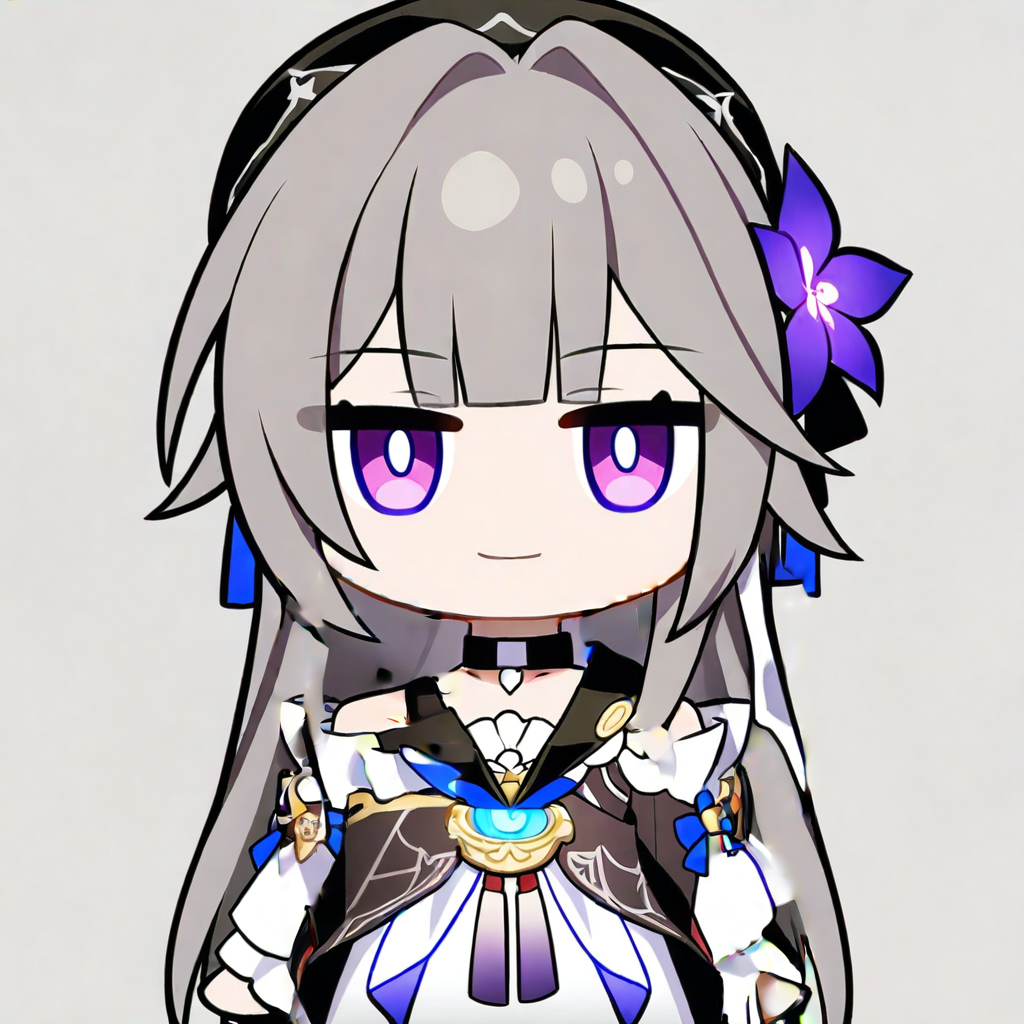
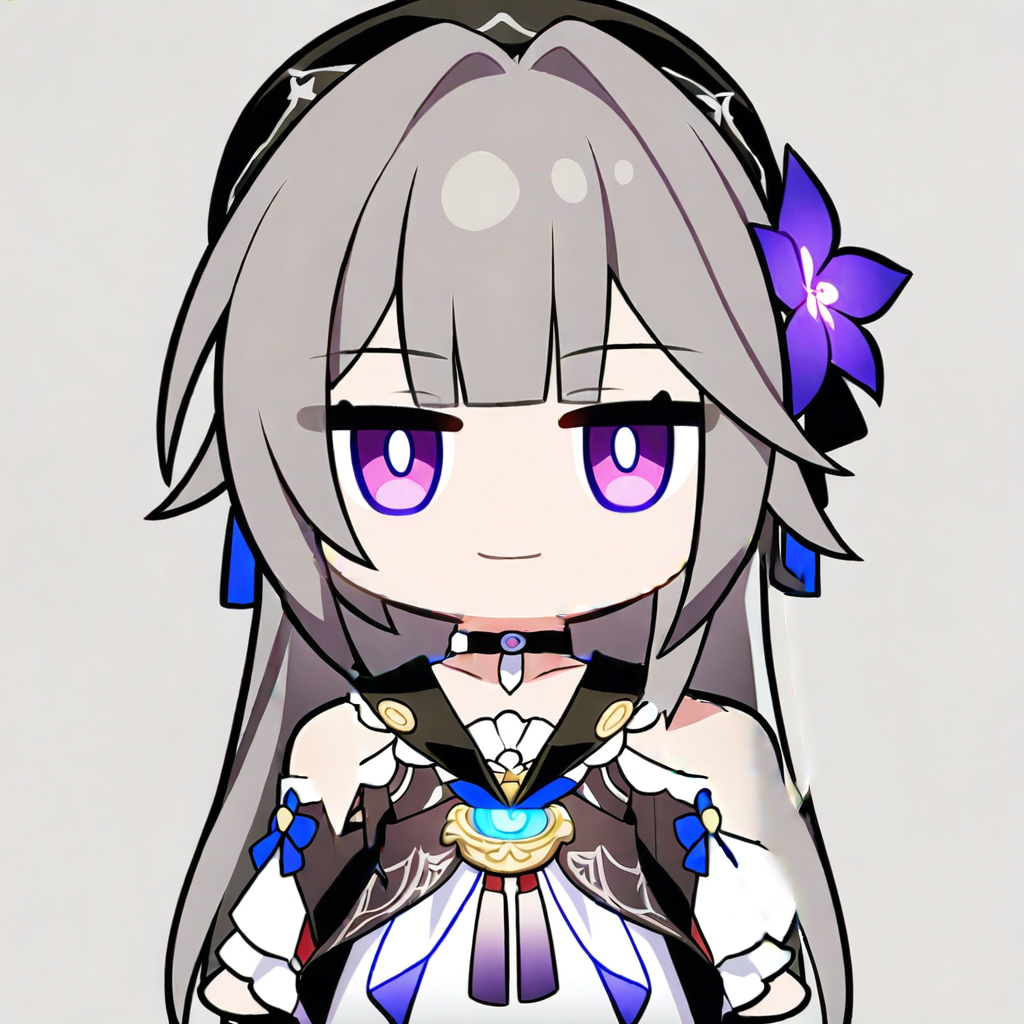
JINY 머리카락 가닥 끊김 수정 — 위치 상자 대신 가닥을 따라 분리
턱 아래 머리카락을 정해 둔 상자 안에서만 인정해서, 상자를 벗어난 가슴 위 가닥이 몸으로
분류돼 머리카락만 흔들릴 때 잘려 보였다. 상자를 없애고 머리에서부터 회색 픽셀을 4-이웃으로
따라가 이어진 가닥만 머리카락으로(검은 외곽선은 건너지 않아 소매 그림자와 안 섞인다).
- 그늘진 머리카락(밝기 70 대)도 후보로: 진짜 검은 선(밝기 < 60)만 제외
- 리본·꽃은 턱선 위아래 상관없이 장식으로, 리본 영역은 연결 탐색 때 통과(그 밑으로 가닥이 이어진다)
- 새로 드러나는 몸(가닥 밑 어깨·소매)은 다시 인페인팅해서 채움

Changed region(s): [[0.25, 0.5312, 0.8125, 1.0], [0.6875, 0.875, 0.8125, 1.0]]

diff --git a/art/jiny/README.md b/art/jiny/README.md
@@ -43,7 +43,7 @@ node scripts/rev2d/bundle.mjs <Rev2D 폴더>                                   #
   | 파츠 | 태그 | 부정 | seed |
   | --- | --- | --- | --- |
   | face | `chibi, (bare forehead:1.4), (no bangs:1.5), forehead, skin, eyebrows` | `hair, bangs, fringe, hair strands, headband, hat` | 7 |
-  | body | `chibi, (pale neck:1.3), skin, collarbone, black choker, black dress, white frills` | `hair, hair strand, grey hair, mouth, chin, face, dark smear` | 35 |
+  | body | `chibi, (pale neck:1.3), skin, collarbone, black choker, black dress, white frills, white sleeves, bare shoulders` | `hair, hair strand, grey hair, long hair, mouth, chin, face, dark smear` | 35 |
   | sclera | `chibi, (blank white eyes:1.5), (empty eyes:1.4), no pupils, white sclera` | `purple eyes, pupils, iris, eye highlights, colored eyes` | 7 |
   | eyes_closed | `chibi, (closed eyes:1.5), (eyes closed:1.3), eyelashes, light smile` | `open eyes, iris, pupils, purple eyes, eye highlights` | 7 |
   | eyes_half | `chibi, purple eyes, (half-closed eyes:1.4), sleepy, droopy eyelids` (d 0.95) | `wide eyes, closed eyes` | 7 |
